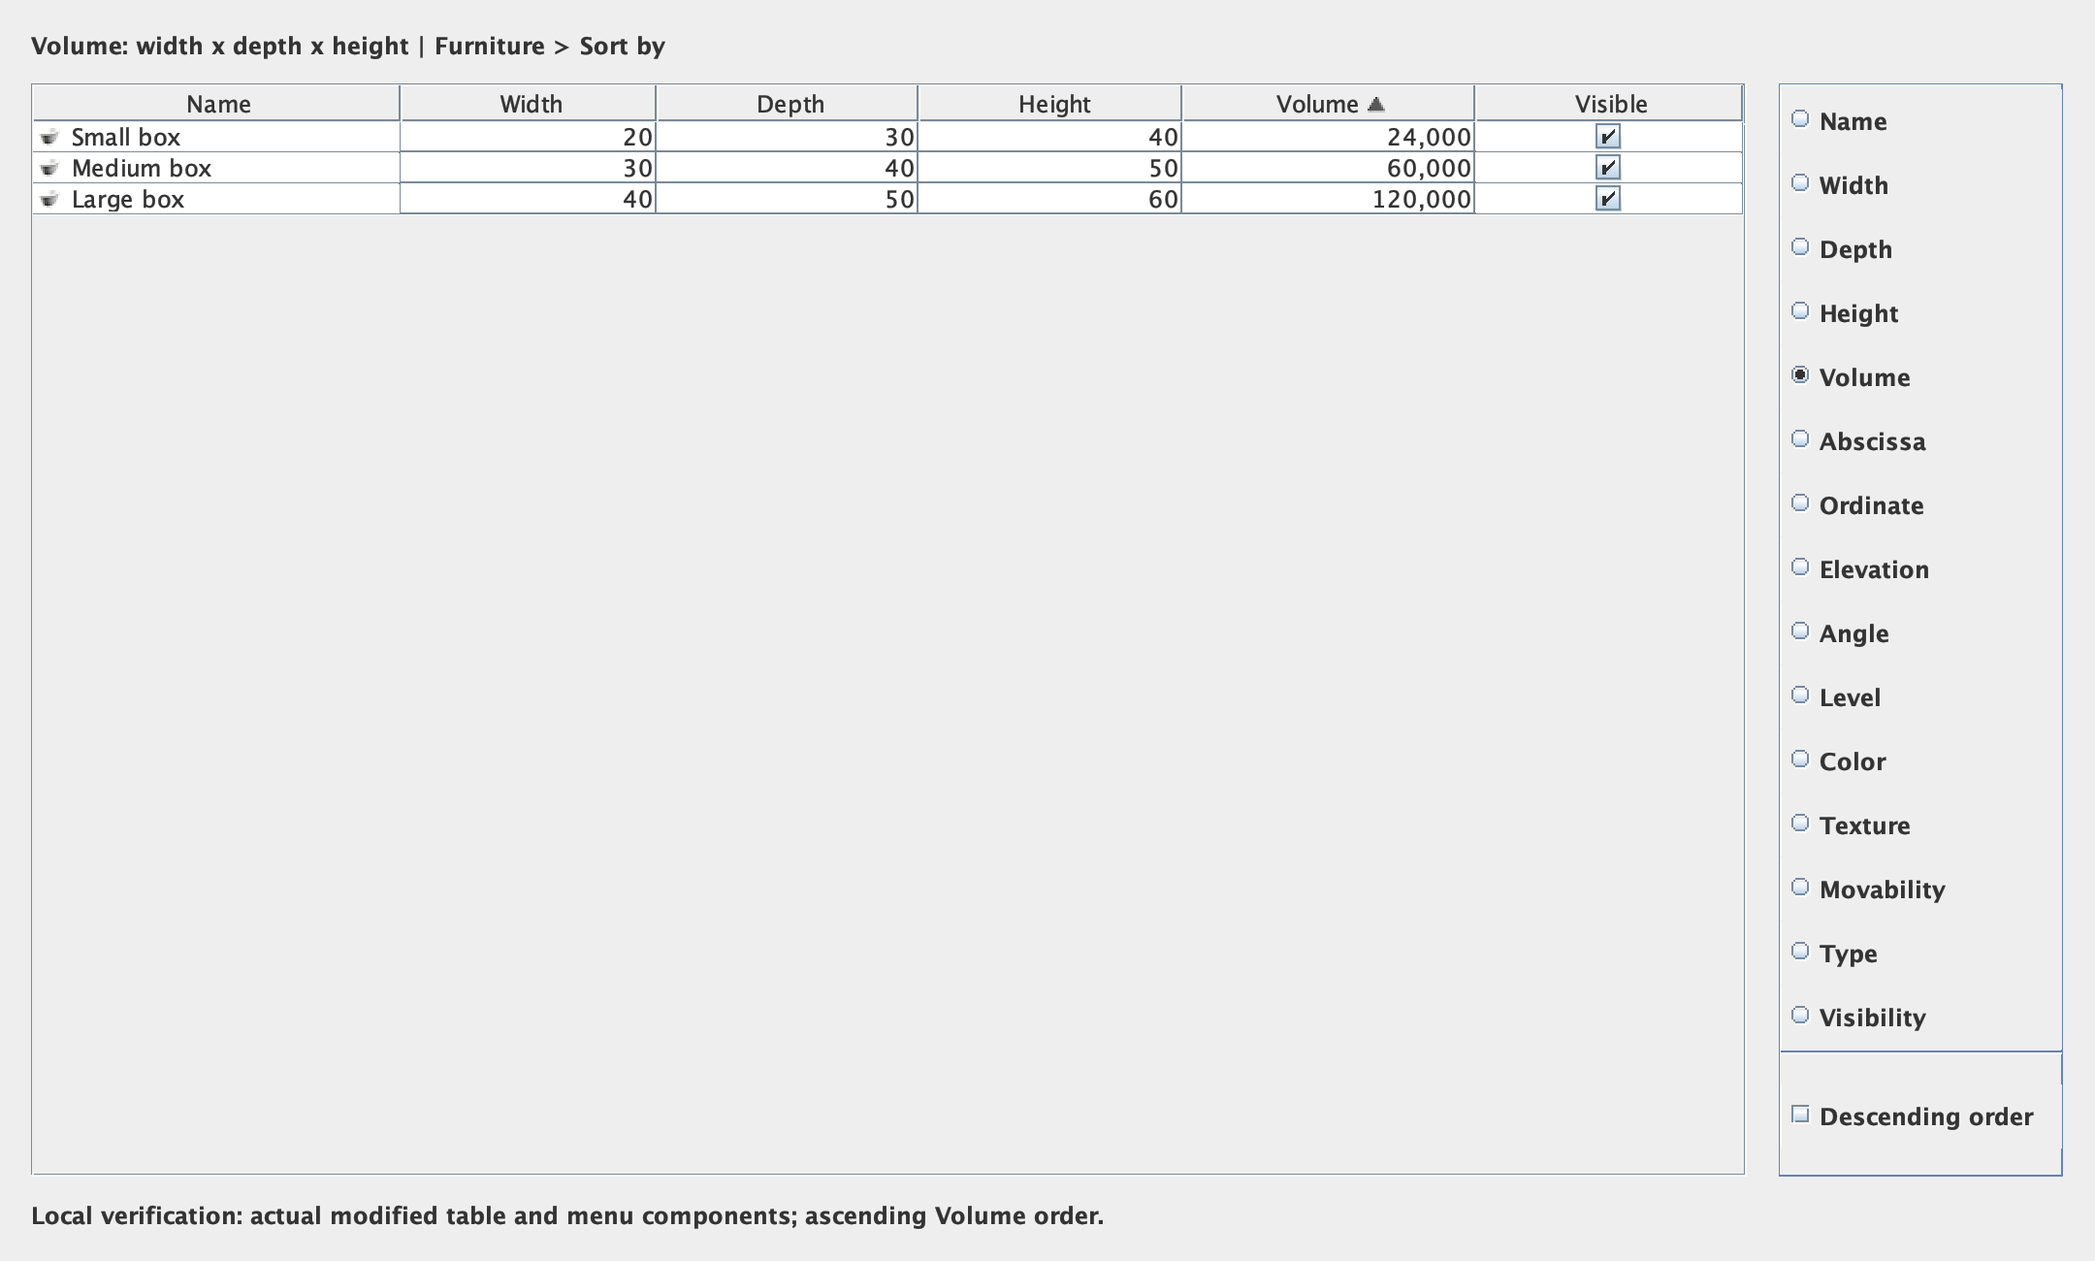
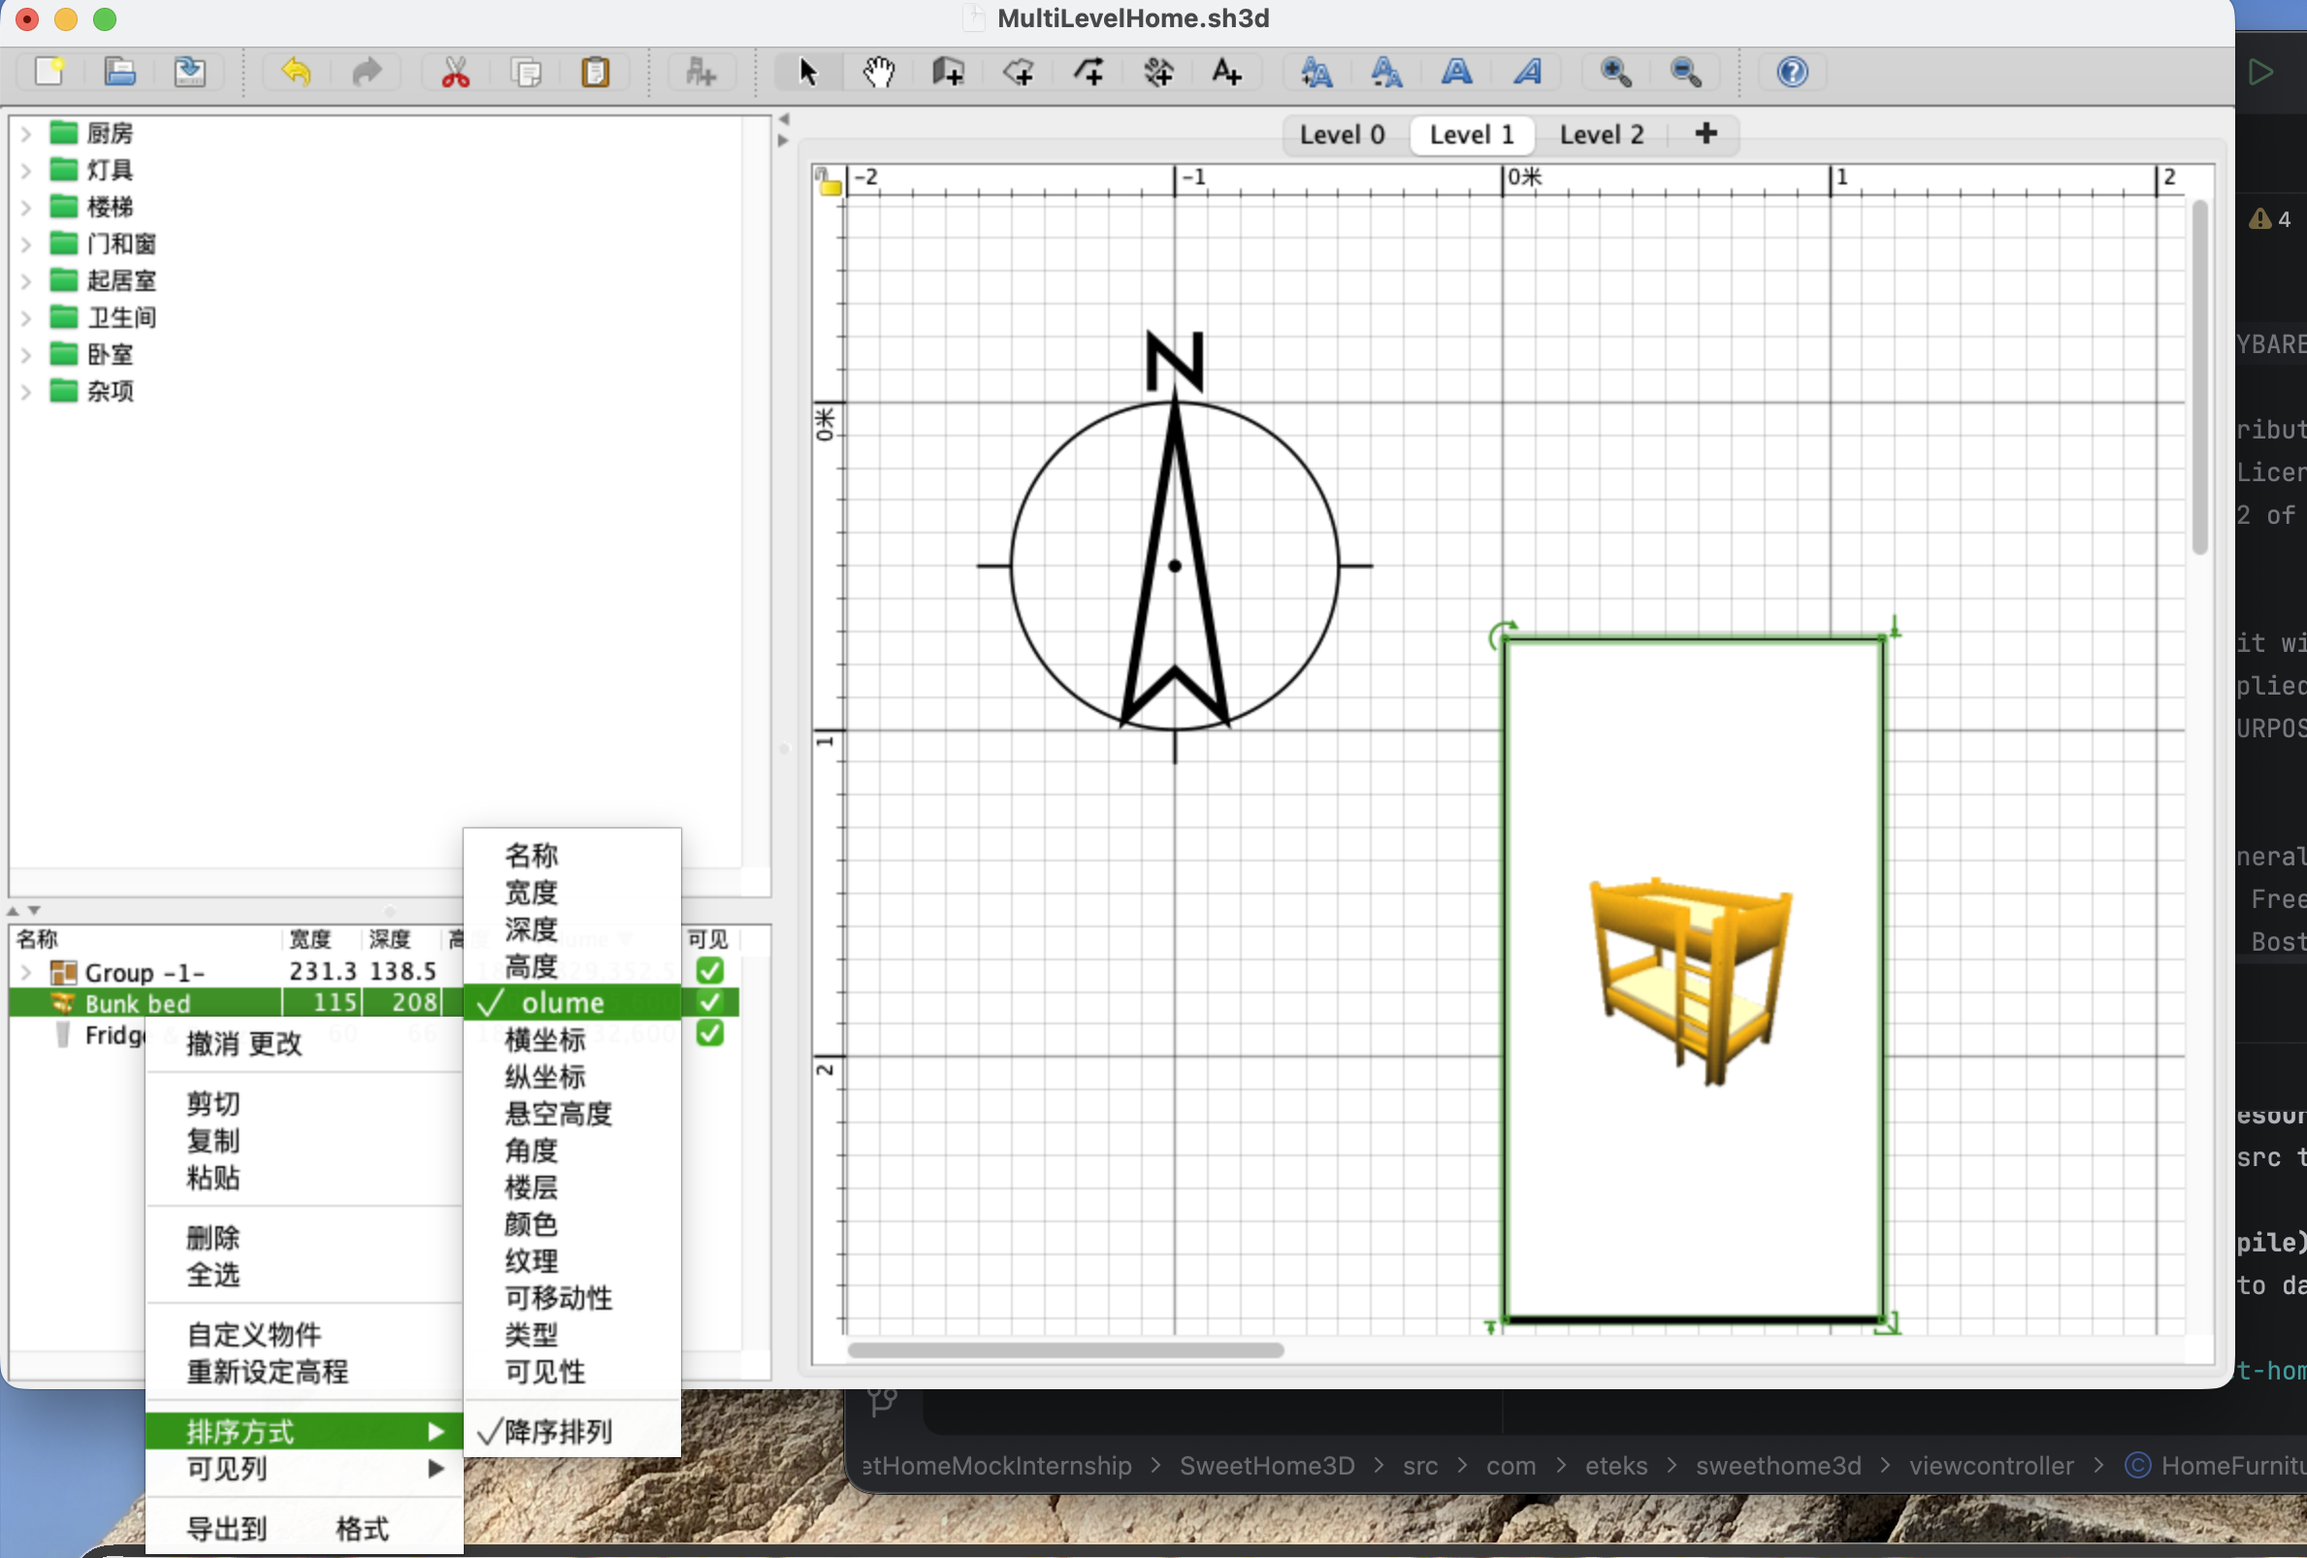
Replace rendered evidence with application screenshots

diff --git a/submissions/README.md b/submissions/README.md
@@ -4,10 +4,10 @@
 | --- | --- |
 | `task1-running.png` | The complete application window running locally. |
 | `task2-description.png` | The actual Modify furniture view with the edited description, after saving and reopening the home. |
-| `task3-volume.png` | The actual furniture table populated with calculated volumes in ascending order, alongside the application's Sort by menu containing Volume. |
+| `task3-volume.png` | The running application with calculated volumes populated in descending order and the context-menu Sort by submenu containing Volume. |
 | `task4-all-levels.pdf` | Output from the application's PDF printer: an all-level furniture table with a Level column, followed by the plans for Level 0, Level 1, and Level 2. |
 
-The Task 2 and Task 3 PNGs are component renderings produced from the modified application's Java Swing views by a local verification harness, using English labels and the standard cross-platform Swing look and feel. Their captions identify this verification method.
+The Task 2 and Task 3 PNGs were captured from the modified application while it was running locally. Task 2 shows the reopened furniture editor with the saved description. Task 3 shows the supplied multi-level sample with Volume selected as its sort property.
 
 ## Local verification
 
